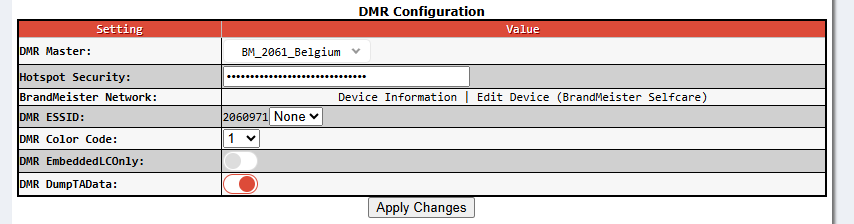
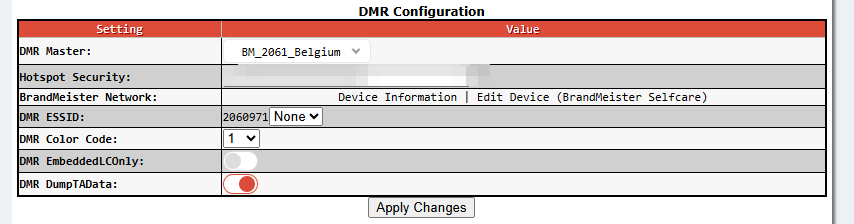
Add files via upload

Changed region(s): [[0.2436, 0.2812, 0.5785, 0.4062]]

diff --git a/_posts/2026-10-29-dm1801pro-part-2-daily-use.md b/_posts/2026-10-29-dm1801pro-part-2-daily-use.md
@@ -171,6 +171,33 @@ You are on Double Wait, A (ON0AND) is the main channel, and someone calls on B (
 After a signal on B the radio stays on B for the Dual Watch Hang Time (500 ms). Whether PTT within that half second already transmits on B, I still have to confirm. Do not count on it: use [A/B].
 </div>
 
+<div class="dm-box" markdown="1">
+<p class="dm-box-label">Situation: listen on A and B, recognise the line, then hear only that one</p>
+You want to monitor two signals (for example the FM repeater on A and TG 206 on B). When something comes in, you first want to know **on which line**, then hear only that line, and if it is B, answer there.
+</div>
+
+<div class="dm-box dm-why" markdown="1">
+<p class="dm-box-label">Why it is confusing</p>
+In Double Wait the radio jumps to the line that receives, but only while the signal lasts. After the Dual Watch Hang Time (500 ms) it falls back to the main channel. If the other station has already stopped when you press [A/B], you end up on the wrong line. So: look and press **while the signal is still active**.
+</div>
+
+<div class="dm-box dm-steps" markdown="1">
+<p class="dm-box-label">Step plan: listen on two, recognise, narrow down, answer</p>
+
+1. Press **SK1 short** until the **DW** icon shows and both A and B are visible. Now you hear both lines. (Menu alternative: [MENU] > Settings > Radio Settings > Display Func > Dual Watch.)
+2. Wait for a signal. Recognise the line by: the **green LED**, the **signal bars** on that line only, and for DMR the **callsign or ID and talkgroup** on that line. The main channel marker may also jump to it.
+3. Is it on **A**? Nothing to switch: PTT already answers on A.
+4. Is it on **B** and you want to answer? Press **[A/B]** (or SK1 long) while the signal is still active. B is now the main channel and PTT transmits on B.
+5. To hear **only this line** from now on: press **SK1 short** until the DW icon disappears (Single Wait: both shown, only the main channel heard). Press again for Single Mode (only the main channel shown).
+6. When finished: **SK1 short** back to Double Wait, and **[A/B]** to make A the main channel again.
+7. Habit: **look at the marker before every PTT.**
+</div>
+
+<div class="dm-box dm-warn" markdown="1">
+<p class="dm-box-label">Tip and watch out (to be tested)</p>
+If the radio falls back too fast for you, raise **Dual Watch Hang Time** in the CPS under Option Feature > Work Mode (try 2 to 3 seconds, if the list allows it) and write it back. The order in which SK1 cycles through the three modes, and whether PTT inside the hang time already transmits on B, I still have to confirm on the radio.
+</div>
+
 <h2 id="dm-p2-4">4. Changing channel and zone</h2>
 
 <div class="dm-box dm-steps" markdown="1">
